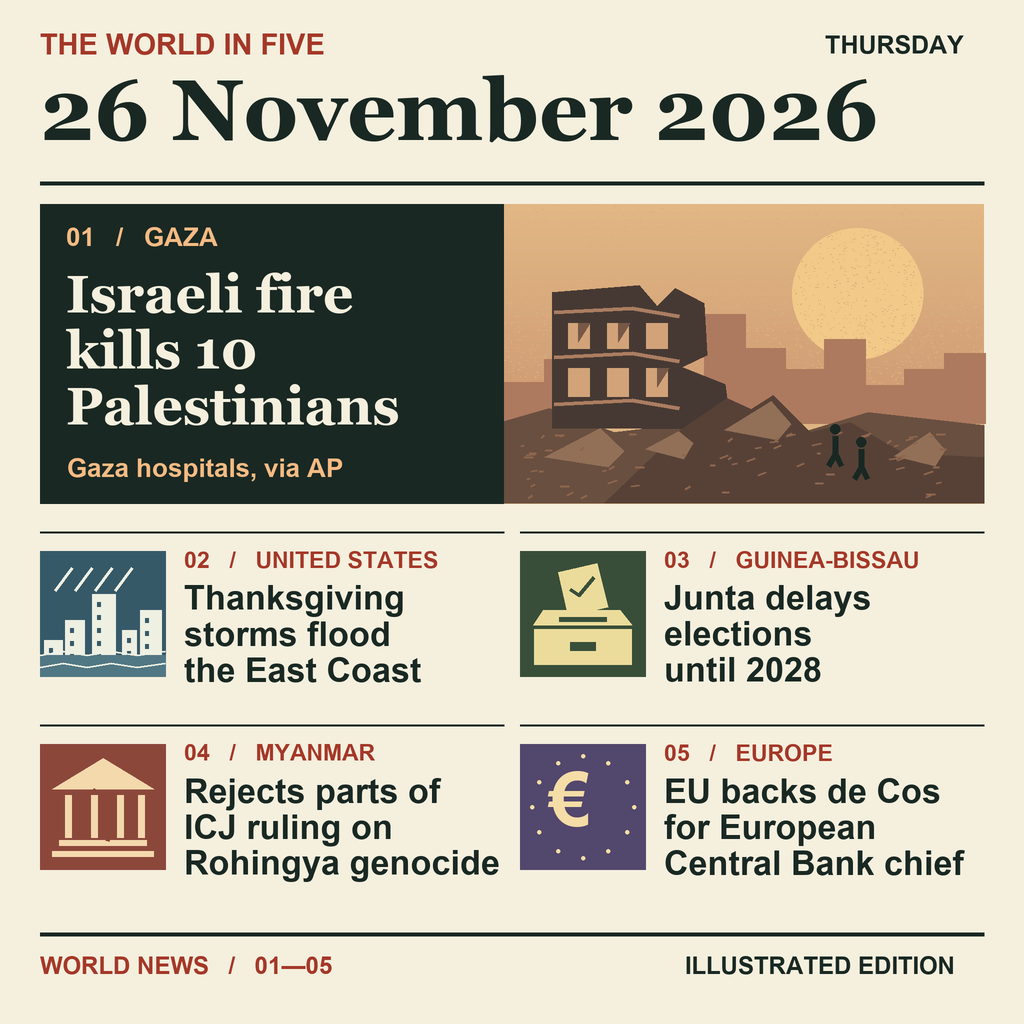
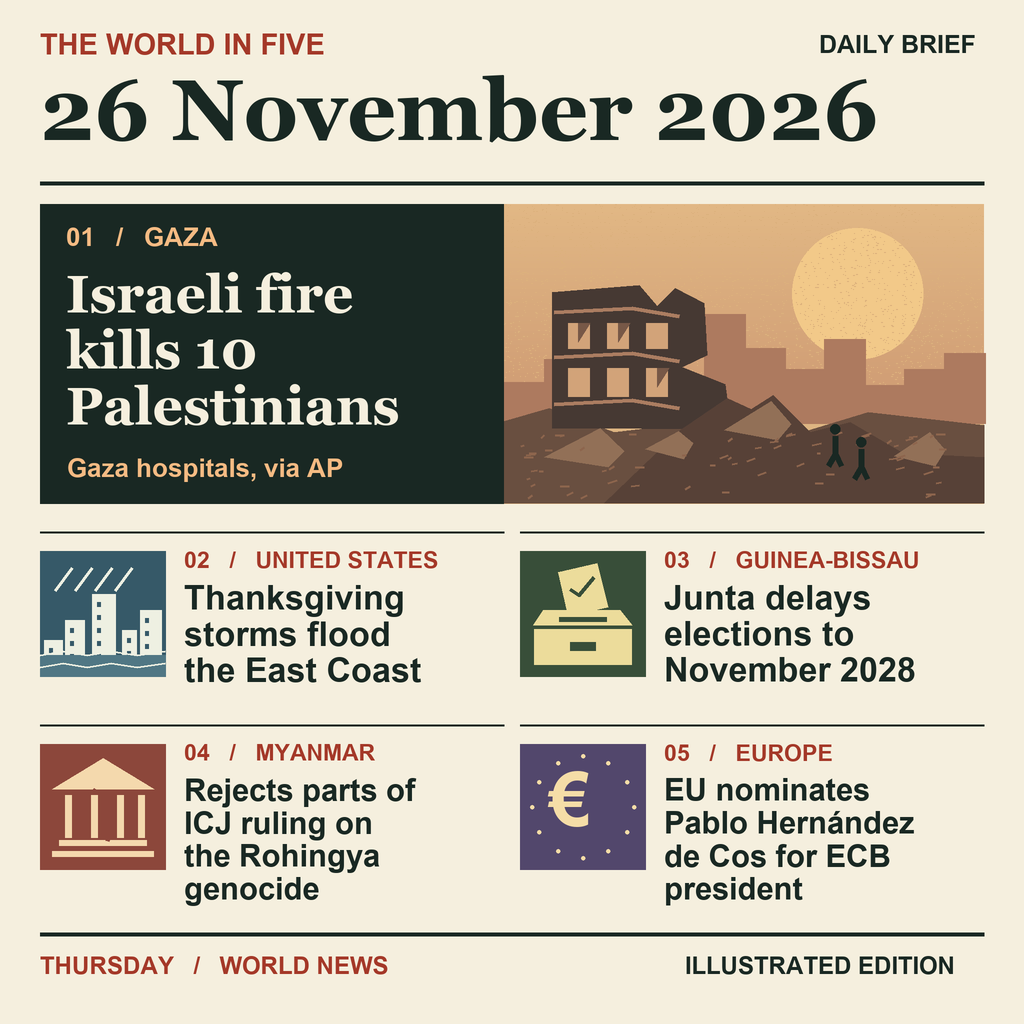
Tighten headline precision and the column gutters

diff --git a/draw.py b/draw.py
@@ -125,13 +125,14 @@ def card(x,y,region,head,kind,palette):
     line([(x,y),(x+464,y)],INK,2)
     emblem(kind,x,y+19,*palette)
     text(x+144,y+19,region,23,RUST)
+    size = 31 if len(head) == 4 else 34
     for i, row in enumerate(head):
-        assert font("Arial Bold",34).getlength(row)/S <= 320, row
-        text(x+144,y+53+i*36,row,34)
+        assert font("Arial Bold",size).getlength(row)/S <= 310, row
+        text(x+144,y+53+i*(size+2),row,size)
 
 
 text(40,33,"THE WORLD IN FIVE",29,RUST)
-text(825,35,"THURSDAY",25,INK)
+text(819,35,"DAILY BRIEF",25,INK)
 text(40,75,"26 November 2026",86,INK,"Georgia Bold")
 line([(40,183),(984,183)],INK,4)
 box(40,204,944,300,INK)
@@ -143,13 +144,13 @@ text(67,458,"Gaza hospitals, via AP",26,"#f5bb83")
 
 card(40,532,"02   /   UNITED STATES",("Thanksgiving", "storms flood", "the East Coast"),
      "storm", ("#eef0e2","#365968"))
-card(520,532,"03   /   GUINEA-BISSAU",("Junta delays", "elections", "until 2028"),
+card(520,532,"03   /   GUINEA-BISSAU",("Junta delays", "elections to", "November 2028"),
      "vote", ("#ecdc9b","#384e39"))
-card(40,725,"04   /   MYANMAR",("Rejects parts of", "ICJ ruling on", "Rohingya genocide"),
+card(40,725,"04   /   MYANMAR",("Rejects parts of", "ICJ ruling on", "the Rohingya", "genocide"),
      "court", ("#f4d9ad","#8c473b"))
-card(520,725,"05   /   EUROPE",("EU backs de Cos", "for European", "Central Bank chief"),
+card(520,725,"05   /   EUROPE",("EU nominates", "Pablo Hernández", "de Cos for ECB", "president"),
      "euro", ("#f5dda7","#52476c"))
 line([(40,934),(984,934)],INK,4)
-text(40,956,"WORLD NEWS   /   01—05",24,RUST)
+text(40,956,"THURSDAY   /   WORLD NEWS",24,RUST)
 text(685,956,"ILLUSTRATED EDITION",24,INK)
 im.resize((1024,1024),Image.Resampling.LANCZOS).save(argv[1], optimize=True)
